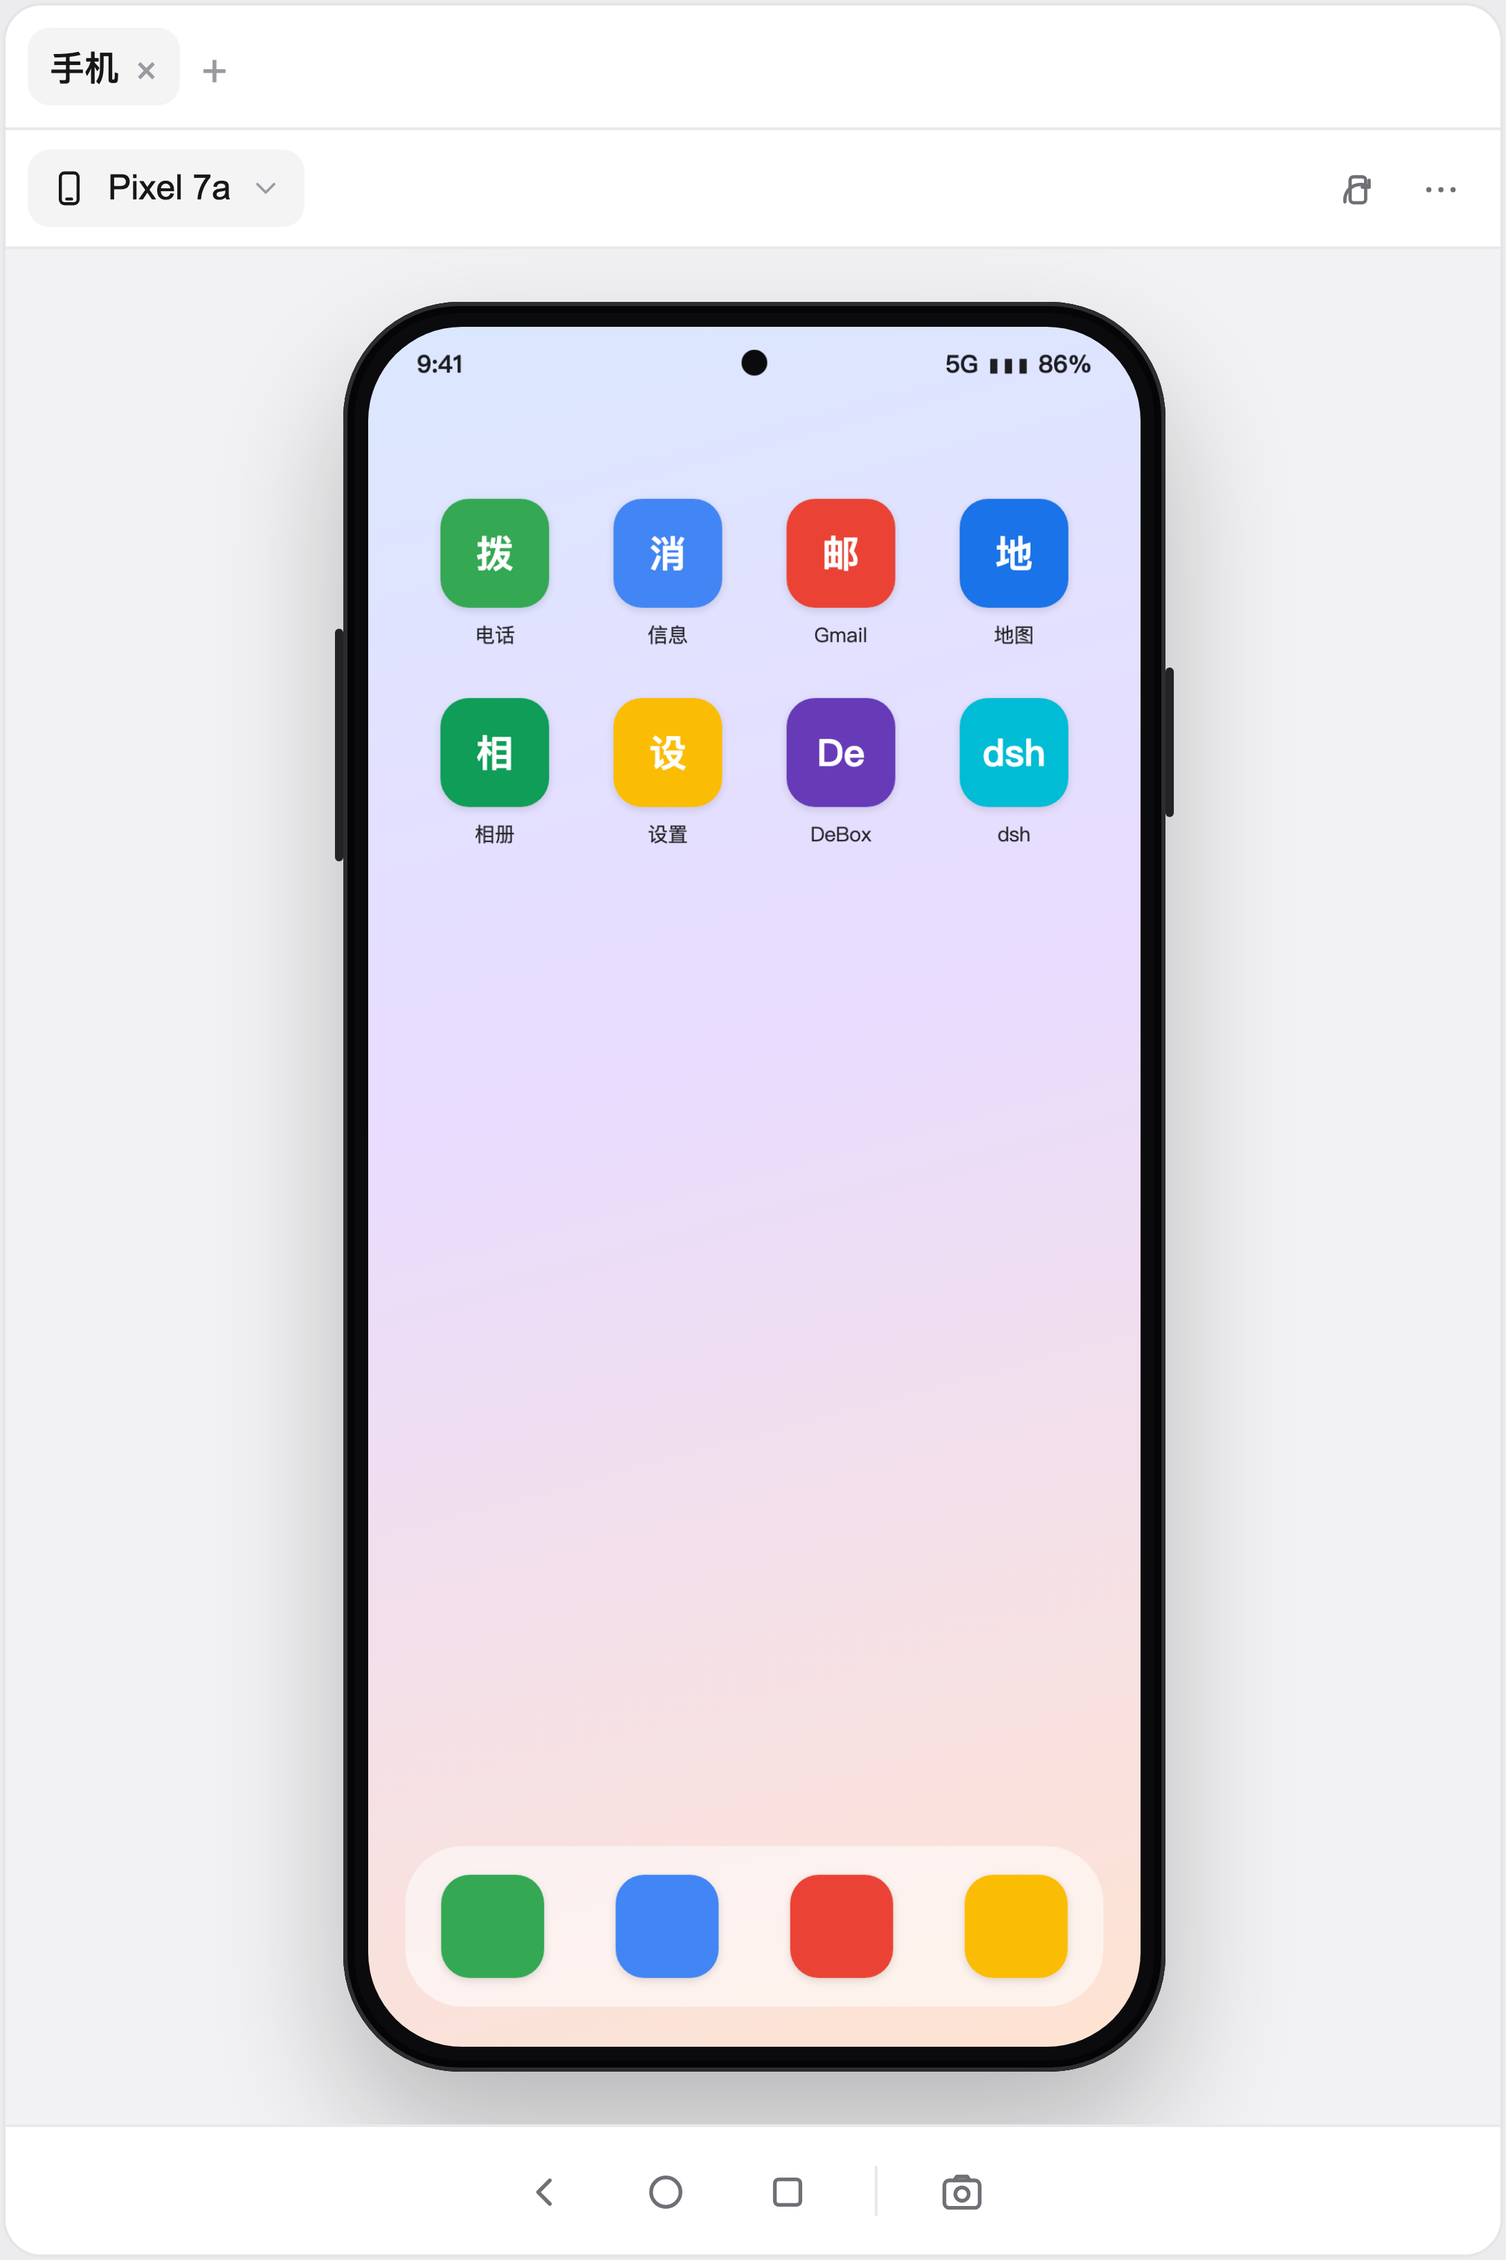
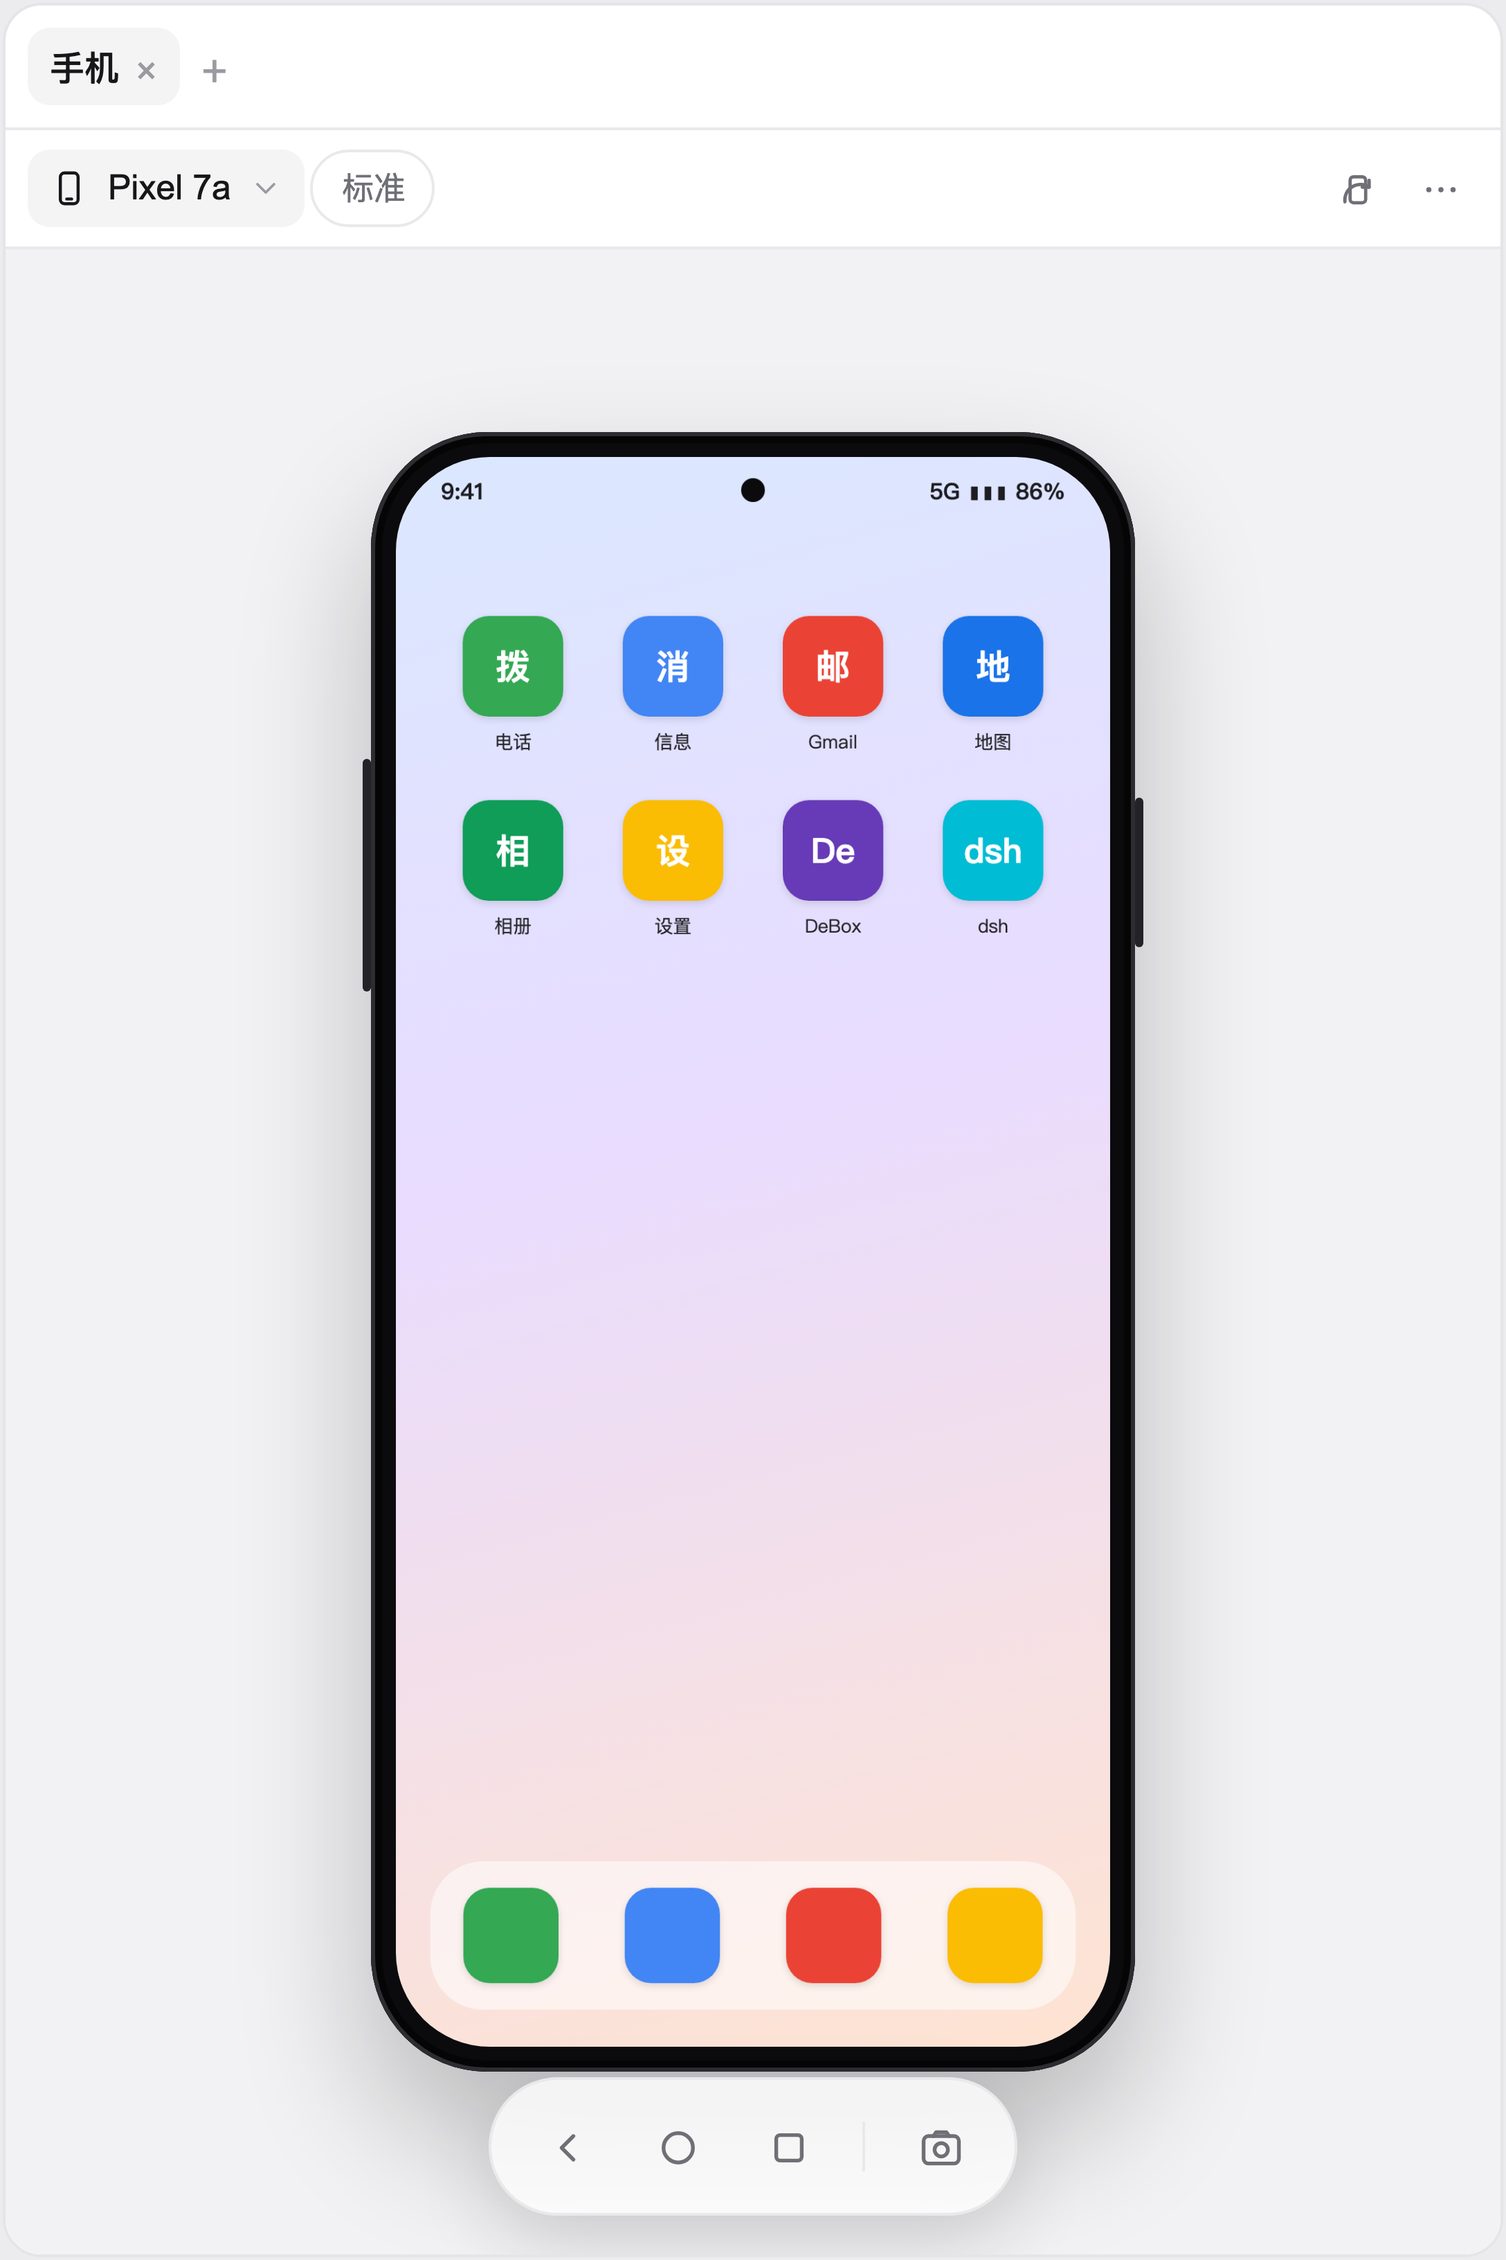
feat(ui): 底部悬浮胶囊导航 + 顶部清晰度切换
- 底部三键+截图改为 HarmonyOS 风格悬浮胶囊，浮在舞台上不占画面高度，适配余量重新计算
- 顶部新增清晰度胶囊：流畅/标准/高清 → screenrecord size/bitRate 预设，localStorage 记忆，切换时重连流
- Host /phone/stream 接受 quality 预设并按白名单映射，未知值回落配置默认
- 文档/截图/CHANGELOG 同步

diff --git a/lib/client.js b/lib/client.js
@@ -50,6 +50,10 @@ window.__ModuleLoader__.load({
       float: '浮窗打开',
       saved: '已保存',
       diagnostics: 'adb 诊断',
+      quality: '显示清晰度',
+      qualityLow: '流畅',
+      qualityMedium: '标准',
+      qualityHigh: '高清',
       confirmDisconnect: '确认断开？',
       noSaved: '还没有保存的连接目标',
       copyDiag: '复制诊断信息',
@@ -94,6 +98,10 @@ window.__ModuleLoader__.load({
       float: 'Open as floating window',
       saved: 'Saved',
       diagnostics: 'adb diagnostics',
+      quality: 'Stream quality',
+      qualityLow: 'Low',
+      qualityMedium: 'Medium',
+      qualityHigh: 'High',
       confirmDisconnect: 'Confirm disconnect?',
       noSaved: 'No saved targets yet',
       copyDiag: 'Copy diagnostics',
@@ -113,6 +121,8 @@ window.__ModuleLoader__.load({
 .dph-select{height:28px;max-width:230px;display:flex;align-items:center;gap:7px;padding:0 8px;border:0;border-radius:8px;background:var(--dsw-alias-bg-layer-2,#f4f4f5);color:var(--dsw-alias-label-primary,#17171a);font-size:12.5px;cursor:pointer}
 .dph-select:hover{background:var(--dsw-alias-bg-layer-2,#ececef)}
 .dph-select .nm{font-weight:500;overflow:hidden;text-overflow:ellipsis;white-space:nowrap}
+.dph-quality{height:28px;padding:0 10px;border:1px solid var(--dsw-alias-border-l1,#e9e9ec);border-radius:999px;background:transparent;color:var(--dsw-alias-label-secondary,#6f6f76);font-size:11.5px;cursor:pointer;flex:none}
+.dph-quality:hover{background:var(--dsw-alias-bg-layer-2,#f4f4f5);color:var(--dsw-alias-label-primary,#17171a)}
 .dph-select .chev{color:var(--dsw-alias-label-tertiary,#9a9aa1);flex:none}
 .dph-body{flex:1 1 auto;min-height:0;display:flex;flex-direction:column}
 
@@ -137,8 +147,8 @@ window.__ModuleLoader__.load({
 .dph-emptypadding{padding:26px 20px;color:var(--dsw-alias-label-tertiary,#9a9aa1);font-size:12.5px;line-height:1.7}
 .dph-link{color:var(--dsw-alias-brand-primary,#3b6cff);cursor:pointer;background:none;border:0;padding:0;font:inherit}
 
-.dph-navbar{flex:none;height:46px;display:flex;align-items:center;justify-content:center;gap:6px;border-top:1px solid var(--dsw-alias-border-l1,#e9e9ec);background:var(--dsw-alias-bg-layer-1,#fff)}
-.dph-navbtn{width:38px;height:32px;border:0;border-radius:9px;background:transparent;color:var(--dsw-alias-label-secondary,#6f6f76);display:inline-grid;place-items:center;cursor:pointer;padding:0}
+.dph-navbar{position:absolute;z-index:6;left:50%;bottom:14px;transform:translateX(-50%);display:flex;align-items:center;gap:2px;padding:5px 8px;border-radius:999px;border:1px solid var(--dsw-alias-border-l1,#e9e9ec);background:color-mix(in srgb,var(--dsw-alias-bg-layer-1,#fff) 78%,transparent);backdrop-filter:blur(14px);box-shadow:0 10px 28px rgba(0,0,0,.14)}
+.dph-navbtn{width:38px;height:38px;border:0;border-radius:999px;background:transparent;color:var(--dsw-alias-label-secondary,#6f6f76);display:inline-grid;place-items:center;cursor:pointer;padding:0}
 .dph-navbtn:hover{background:var(--dsw-alias-bg-layer-2,#f4f4f5);color:var(--dsw-alias-label-primary,#17171a)}
 .dph-navbtn:active{transform:scale(.94)}
 .dph-navsep{width:1px;height:18px;background:var(--dsw-alias-border-l1,#e9e9ec);margin:0 6px}
@@ -171,7 +181,7 @@ window.__ModuleLoader__.load({
 .dph-primary{height:32px;padding:0 14px;border:0;border-radius:8px;background:var(--dsw-alias-label-primary,#17171a);color:var(--dsw-alias-bg-layer-1,#fff);font-size:12px;cursor:pointer}
 .dph-primary:disabled{opacity:.5;cursor:default}
 .dph-err{color:var(--dsw-alias-state-error-primary,#dc2626);font-size:11.5px;margin-top:8px;word-break:break-word}
-.dph-toast{position:absolute;z-index:30;left:50%;bottom:18px;transform:translateX(-50%);max-width:80%;padding:6px 12px;border-radius:8px;background:rgba(23,23,26,.88);color:#fff;font-size:11.5px;pointer-events:none}
+.dph-toast{position:absolute;z-index:30;left:50%;bottom:78px;transform:translateX(-50%);max-width:80%;padding:6px 12px;border-radius:8px;background:rgba(23,23,26,.88);color:#fff;font-size:11.5px;pointer-events:none}
 .dph-menu-list{display:block;max-height:320px;overflow:auto}
 .dph-saved{margin-top:12px;border-top:1px solid var(--dsw-alias-border-l1,#eee);padding-top:10px}
 .dph-saved-title{font-size:11px;color:var(--dsw-alias-label-tertiary,#9a9aa1);letter-spacing:.3px;margin-bottom:6px}
@@ -405,6 +415,14 @@ window.__ModuleLoader__.load({
       return 'usb'
     }
 
+    const QUALITY_ORDER = ['low', 'medium', 'high']
+
+    function qualityLabel(quality, t) {
+      if (quality === 'low') return t('qualityLow')
+      if (quality === 'high') return t('qualityHigh')
+      return t('qualityMedium')
+    }
+
     function platformLabel(platform) {
       if (platform === 'android') return 'Android'
       if (platform === 'harmony') return 'HarmonyOS'
@@ -603,7 +621,7 @@ window.__ModuleLoader__.load({
       return { codec, description }
     }
 
-    function useStream(serial, visible, canvasRef, onToast, attempt) {
+    function useStream(serial, visible, canvasRef, onToast, attempt, quality) {
       const [status, setStatus] = useState('idle')
       useEffect(() => {
         if (!serial || !visible || !CAN_STREAM) {
@@ -694,7 +712,7 @@ window.__ModuleLoader__.load({
           const response = await fetch('phone/stream', {
             method: 'POST',
             headers: { 'content-type': 'application/json' },
-            body: JSON.stringify({ serial }),
+            body: JSON.stringify({ serial, quality }),
             signal: controller.signal,
           })
           const type = response.headers.get('content-type') || ''
@@ -741,11 +759,11 @@ window.__ModuleLoader__.load({
           controller.abort()
           resetDecoder()
         }
-      }, [serial, visible, attempt])
+      }, [serial, visible, attempt, quality])
       return status
     }
 
-    function usePreview(serial, visible, t) {
+    function usePreview(serial, visible, t, quality) {
       const stageRef = useRef(null)
       const canvasRef = useRef(null)
       const pointerRef = useRef(null)
@@ -758,7 +776,7 @@ window.__ModuleLoader__.load({
       const [loading, setLoading] = useState(true)
       const [attempt, setAttempt] = useState(0)
       const [toast, setToast] = useState(null)
-      const streamStatus = useStream(CAN_STREAM ? serial : null, visible, canvasRef, setToast, attempt)
+      const streamStatus = useStream(CAN_STREAM ? serial : null, visible, canvasRef, setToast, attempt, quality)
 
       useEffect(() => {
         if (!serial) return undefined
@@ -785,7 +803,7 @@ window.__ModuleLoader__.load({
           const height = el.clientHeight
           if (!width || !height) return
           const availW = Math.max(60, width - 60)
-          const availH = Math.max(120, height - 56)
+          const availH = Math.max(120, height - 150)
           const screenW = Math.min(availW, availH * ratio)
           setSize({ w: Math.round(screenW), h: Math.round(screenW / ratio) })
         }
@@ -968,11 +986,19 @@ window.__ModuleLoader__.load({
       const [connectError, setConnectError] = useState(null)
       const [nonce, setNonce] = useState(0)
       const [health, setHealth] = useState(null)
+      const [quality, setQuality] = useState(() => {
+        try {
+          const saved = localStorage.getItem('dsh-phone-quality')
+          return QUALITY_ORDER.includes(saved) ? saved : 'medium'
+        } catch {
+          return 'medium'
+        }
+      })
       const [targets, setTargets] = useState([])
       const [diagOpen, setDiagOpen] = useState(false)
       const [disconnectArmed, setDisconnectArmed] = useState(false)
       const { devices, error, reload } = useDeviceList(visible, nonce)
-      const preview = usePreview(selected, visible && Boolean(selected), t)
+      const preview = usePreview(selected, visible && Boolean(selected), t, quality)
 
       useEffect(() => {
         let alive = true
@@ -1468,6 +1494,22 @@ window.__ModuleLoader__.load({
             h(Icon, { name: 'phone', size: 14 }),
             h('span', { className: 'nm' }, device ? device.model : t('select')),
             h(Icon, { name: 'chevron', size: 12, className: 'chev' }),
+          ),
+          h(
+            'button',
+            {
+              type: 'button',
+              className: 'dph-quality',
+              title: t('quality'),
+              onClick: () => {
+                const next = QUALITY_ORDER[(QUALITY_ORDER.indexOf(quality) + 1) % QUALITY_ORDER.length]
+                setQuality(next)
+                try {
+                  localStorage.setItem('dsh-phone-quality', next)
+                } catch {}
+              },
+            },
+            qualityLabel(quality, t),
           ),
           h('div', { className: 'dph-grow' }),
           rightButtons,

diff --git a/lib/stream.js b/lib/stream.js
@@ -6,6 +6,13 @@
 // - res.write 背压 → pause/resume 子进程 stdout
 import { spawn } from 'node:child_process'
 
+/** 清晰度预设：只影响 screenrecord 的输出，不改手机真实分辨率。 */
+export const STREAM_QUALITY = Object.freeze({
+  low: { size: '360x800', bitRate: 2_000_000 },
+  medium: { size: '540x1200', bitRate: 6_000_000 },
+  high: { size: '720x1600', bitRate: 10_000_000 },
+})
+
 const DEFAULTS = {
   timeLimit: 180,
   bitRate: 6_000_000,
@@ -21,7 +28,9 @@ export function createStreamer(adb, options = {}) {
      * 把某台设备的 H.264 流接到一个 HTTP 响应上。
      * 调用前必须先 adb.assertReady(serial)，这里不再重复校验。
      */
-    open(serial, res) {
+    open(serial, res, overrides = {}) {
+      const size = overrides.size || config.size
+      const bitRate = overrides.bitRate || config.bitRate
       let closed = false
       let child = null
       let restartTimer = null
@@ -46,8 +55,8 @@ export function createStreamer(adb, options = {}) {
           'screenrecord',
           '--output-format=h264',
           '--time-limit=' + String(config.timeLimit),
-          '--bit-rate=' + String(config.bitRate),
-          '--size=' + config.size,
+          '--bit-rate=' + String(bitRate),
+          '--size=' + size,
           '-',
         ]
         child = spawn(adb.bin, args, { stdio: ['ignore', 'pipe', 'ignore'] })

diff --git a/lib/index.js b/lib/index.js
@@ -7,7 +7,7 @@ import { join } from 'node:path'
 import { homedir } from 'node:os'
 import { createTransports } from './transport.js'
 import { createTargetStore } from './targets.js'
-import { createStreamer } from './stream.js'
+import { STREAM_QUALITY, createStreamer } from './stream.js'
 
 export const name = 'dsh-phone'
 
@@ -144,7 +144,8 @@ export function apply(ctx, rawConfig) {
                 'x-accel-buffering': 'no',
               })
               if (typeof res.flushHeaders === 'function') res.flushHeaders()
-              streamer.open(serial, res)
+              const preset = STREAM_QUALITY[String(payload.quality || '')]
+              streamer.open(serial, res, preset ? { size: preset.size, bitRate: preset.bitRate } : {})
               return
             }
             if (endpoint === 'shot') {

diff --git a/CHANGELOG.md b/CHANGELOG.md
@@ -16,6 +16,7 @@
 - 真机验证：Pixel 7a 上 tap / swipe / 返回 / 主页 均已实测（点开「网络和互联网」「关于本机」，列表滚动）
 - H.264 实时预览：Host `POST /phone/stream` 直接 pipe `screenrecord --output-format=h264`；客户端 Annex-B → avcC → WebCodecs VideoDecoder → canvas，约 20–30fps
 - 不支持 WebCodecs 的浏览器自动回退截图轮询；`screen-info` 提供设备真实分辨率做坐标换算
-- 操作栏改为底部三键 + 截图，顶部只留设备下拉/旋转/更多；断开连接收进设备菜单并二次确认
+- 操作栏改为底部悬浮胶囊（HarmonyOS 风格三键 + 截图），不占画面高度；顶部设备下拉/清晰度/旋转/更多；断开连接收进设备菜单并二次确认
+- 顶部新增清晰度切换：流畅 360x800/2M、标准 540x1200/6M、高清 720x1600/10M，只影响流输出，不改设备分辨率
 - 设备图标按系统显示：Android 机器人 / HarmonyOS / iOS（iOS 待 transport），22px 实心标记、无底色；行内同时显示连接方式与系统两个小标签
 - 测试：`npm run smoke`（含 targets 存储、getprop 解析、平台判定）、`scripts/render-test.mjs`（列表/预览/浮窗/诊断/流五种状态）

diff --git a/README.md b/README.md
@@ -48,8 +48,17 @@ dsh plugin --profile web add dsh-phone
         adbPath: adb   # 或 /Users/pony/Library/Android/sdk/platform-tools/adb
         pollMs: 700
         streamTimeLimit: 180   # screenrecord 单次上限，到点自动续
-        streamBitRate: 6000000
-        streamSize: 540x1200   # 云手机可降到 360x800 / 2M
+        streamBitRate: 6000000 # 客户端清晰度会覆盖这两项
+        streamSize: 540x1200
+```
+
+客户端清晰度预设（顶部切换，localStorage 记住）：
+
+| 档位 | size | bitrate |
+|---|---|---|
+| 流畅 | 360x800 | 2 Mbps |
+| 标准 | 540x1200 | 6 Mbps |
+| 高清 | 720x1600 | 10 Mbps |
 ```
 
 `adb` 查找顺序：`adbPath` → `PATH` → `$ANDROID_HOME/platform-tools/adb` → `$ANDROID_SDK_ROOT/platform-tools/adb` → `~/Library/Android/sdk/platform-tools/adb` → `/opt/homebrew/bin/adb`。
